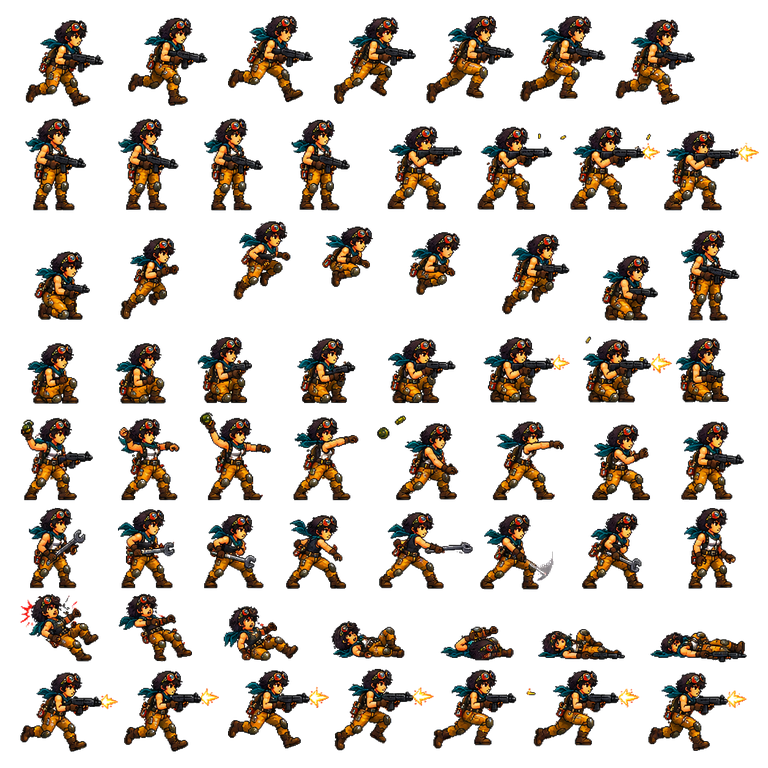
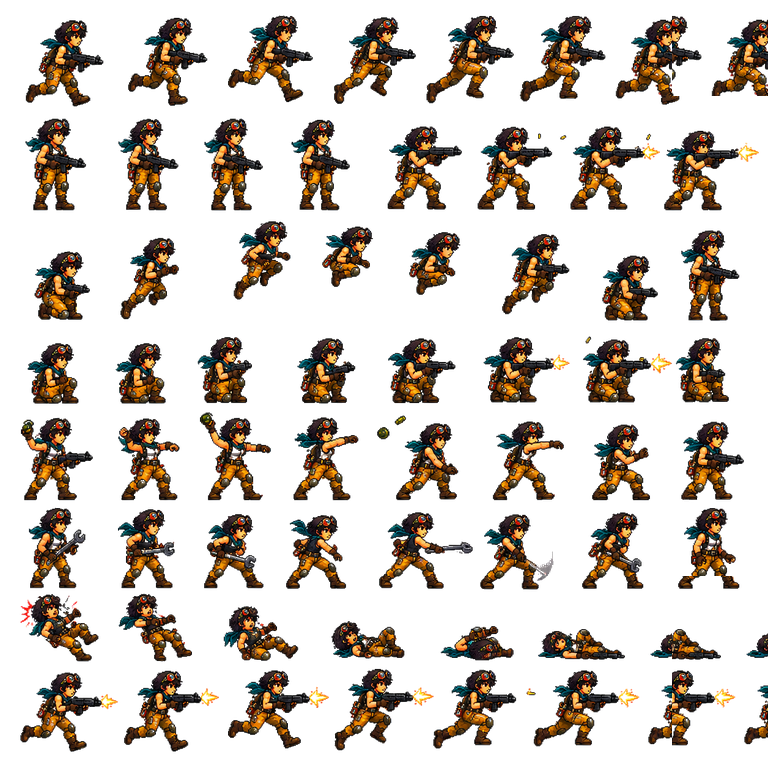
Ground actor sprites and refine cinematic depth

diff --git a/src/render.cpp b/src/render.cpp
@@ -67,6 +67,7 @@ Atlas Renderer::load(const std::string &name, int cols, int rows, bool trim, boo
   Atlas a;
   a.cols = cols;
   a.rows = rows;
+  a.trimmed = trim;
   int n;
   unsigned char *pixels = stbi_load((assets + "/" + name).c_str(), &a.width, &a.height, &n, 4);
   if (!pixels)
@@ -191,7 +192,13 @@ void Renderer::sprite(const Atlas &a, int idx, float x, float y, float w, float 
 void Renderer::groundedSprite(const Atlas &a, int idx, float x, float y, float w, float h,
                               bool flip, double angle, uint8_t alpha) {
   int safe = std::max(0, std::min(idx, int(a.cells.size() - 1)));
-  float shift = safe < int(a.baselines.size()) ? (1.0f - a.baselines[safe]) * h : 0.0f;
+  // Trimmed cells are already mapped from their visible bounding box to the
+  // complete destination box, so their visible bottom is exactly y + h.
+  // Applying the full-cell baseline a second time pushed run-fire and worker
+  // poses below the collision line. Only untrimmed atlases need the correction.
+  float shift = !a.trimmed && safe < int(a.baselines.size())
+                    ? (1.0f - a.baselines[safe]) * h
+                    : 0.0f;
   sprite(a, safe, x, y + shift, w, h, flip, angle, alpha);
 }
 void Renderer::spritePart(const Atlas &a, int idx, Rect part, float x, float y, float w, float h,
@@ -417,11 +424,6 @@ void Renderer::background(int theme, float camera, float time) {
     rect(x + 18, y + 15, 12, 20, theme == 1 ? 0x1B4B5128 : 0x22263228);
     rect(x + 48, y + 15, 24, 20, theme == 3 ? 0x6A2A2028 : 0x25323A28);
   }
-  // Slow second-depth silhouettes keep scrolling distinct from the far scenery.
-  for (int i = 0; i < 6; i++) {
-    float x = i * 121 - std::fmod(camera * .38f, 121.0f);
-    line(x, 0, x, 35 + std::sin(float(i)) * 12, 0x14263080);
-  }
   // Midground silhouettes give the painted panels a second depth layer. They
   // scroll slower than the gameplay plane, making camera motion feel richer
   // without changing collision geometry.
@@ -465,23 +467,18 @@ void Renderer::background(int theme, float camera, float time) {
   }
 }
 void Renderer::foregroundDepth(int theme, float camera, float time) {
-  // The foreground is deliberately sparse: the player and projectiles remain
-  // readable while close rails, cables and hanging hooks sweep past faster
-  // than the collision plane. All elements are existing authored prop art or
-  // simple silhouettes, so no extra runtime texture is required on Vita.
-  const float travel = camera * 1.12f - time * 8.0f;
-  for (int i = 0; i < 6; i++) {
-    float x = std::fmod(i * 124.0f - travel + 800.0f, 620.0f) - 90.0f;
-    float y = 246.0f + (i % 2) * 4.0f;
-    sprite(props, (theme * 2 + i) % 6, x, y, 102, 28, false, 0, 92);
-    rect(x, y, 102, 2, 0x08131AD0);
-  }
-  for (int i = 0; i < 5; i++) {
-    float x = std::fmod(i * 151.0f - camera * 1.28f + time * 10.0f + 640.0f, 620.0f) - 70.0f;
-    float sway = std::sin(time * 1.7f + i * 1.8f) * 12.0f;
-    line(x, 28, x + sway, 122 + (i % 2) * 22, 0x07131AA0);
-    line(x + 1, 28, x + sway + 1, 122 + (i % 2) * 22, 0xC3944960);
-    rect(x + sway - 3, 120 + (i % 2) * 22, 7, 5, 0x1D2B32BB);
+  // The near field is a quiet architectural silhouette along the floor. It
+  // moves a little faster than gameplay to sell depth without putting random
+  // ropes, hooks or props in front of the actors.
+  const float travel = camera * 1.12f - time * 3.0f;
+  uint32_t shadow = theme == 1 || theme == 4 ? 0x071C2538 : 0x120F1838;
+  for (int i = 0; i < 7; i++) {
+    float x = std::fmod(i * 118.0f - travel + 800.0f, 620.0f) - 90.0f;
+    float w = 64.0f + (i % 3) * 18.0f;
+    float h = 5.0f + (i % 2) * 4.0f;
+    rect(x, 267.0f - h, w, h, shadow);
+    rect(x + 8.0f, 267.0f - h - 2.0f, 2.0f, 2.0f,
+         theme == 1 ? 0x62C8BC42 : 0xD78D4842);
   }
 }
 void Renderer::lightingPass(const Game &g, float camera, float time, float alpha) {
@@ -501,12 +498,17 @@ void Renderer::lightingPass(const Game &g, float camera, float time, float alpha
     rect(0, 265 - i * 2, W, 2, 0x050B1200 | uint8_t(a * .8f));
   }
   auto glow = [&](float x, float y, float radius, uint32_t color) {
-    for (int i = 6; i >= 1; i--) {
-      float t = i / 6.0f;
-      uint8_t a = uint8_t((1.0f - t) * 28 + 5);
-      ring(x, y, radius * t, radius * .62f * t, (color & 0xFFFFFF00) | a);
+    // Filled, nested bands read as a soft point light at the game's native
+    // resolution. Outlines made the old glow look like a debug reticle.
+    for (int i = 7; i >= 1; i--) {
+      float t = i / 7.0f;
+      float halfW = radius * t;
+      float halfH = radius * .42f * t;
+      uint8_t a = uint8_t(4 + (1.0f - t) * 18);
+      rect(x - halfW, y - halfH, halfW * 2.0f, halfH * 2.0f,
+           (color & 0xFFFFFF00) | a);
     }
-    rect(x - 2, y - 2, 4, 4, (color & 0xFFFFFF00) | 148);
+    rect(x - 1.5f, y - 1.5f, 3, 3, (color & 0xFFFFFF00) | 164);
   };
   // Practical lamps repeat with the same period as the middle-distance tiles.
   for (int i = 0; i < 9; i++) {
@@ -697,7 +699,8 @@ void Renderer::drawGame(const Game &g, const ViewState &v) {
                                     : (p.recoil > 0 ? -p.dir * 2.0 : 0.0);
       if (g.status == Status::Dying) {
         float deathT = std::clamp(1.0f - g.deathTimer, 0.0f, 1.0f);
-        frame = modernHero ? 48 + std::min(7, int(deathT * 8))
+        static constexpr int deathFrames[] = {48, 49, 50, 51, 52, 53, 54, 54};
+        frame = modernHero ? deathFrames[std::min(7, int(deathT * 8))]
                            : 28 + std::min(3, int((1 - g.deathTimer) * 5));
         w = playerW * (1.0f + deathT * .18f);
         h = playerH * (1.0f - deathT * .16f);
@@ -746,9 +749,12 @@ void Renderer::drawGame(const Game &g, const ViewState &v) {
           frame = crouchIdleFrames[int(p.anim * 5) % 3];
         }
       } else if (std::fabs(p.vx) > 1 && (v.input.shoot || p.shot > 0)) {
-        frame = modernHero ? 56 + int(p.stride * 8) % 8 : 12 + std::min(3, int(p.fireAge * 28));
+        static constexpr int runFireFrames[] = {56, 57, 58, 59, 60, 61, 62, 62};
+        frame = modernHero ? runFireFrames[int(p.stride * 8) % 8]
+                           : 12 + std::min(3, int(p.fireAge * 28));
       } else if (std::fabs(p.vx) > 1) {
-        frame = int(p.stride * 8) % 8;
+        static constexpr int runFrames[] = {0, 1, 2, 3, 4, 5, 6, 6};
+        frame = modernHero ? runFrames[int(p.stride * 8) % 8] : int(p.stride * 8) % 8;
       } else if (v.input.shoot || p.shot > 0) {
         frame = 12 + std::min(3, int(p.fireAge * 28));
       }

diff --git a/src/audio.cpp b/src/audio.cpp
@@ -50,53 +50,58 @@ void Audio::play(Sound s) {
   *v = {0, 300, 0, .22f, .1f, .1f, 0, .35f};
   switch (s) {
   case Sound::Shot:
-    v->freq = 700;
-    v->slide = -6000;
-    v->remaining = .055f;
-    v->wave = 2;
-    v->noiseMix = .28f;
+    v->freq = 760;
+    v->slide = -5200;
+    v->remaining = .075f;
+    v->wave = 3;
+    v->volume = .2f;
+    v->noiseMix = .2f;
     break;
   case Sound::Heavy:
-    v->freq = 330;
-    v->slide = -1800;
-    v->remaining = .07f;
-    v->wave = 2;
-    v->volume = .16f;
-    v->noiseMix = .22f;
+    v->freq = 250;
+    v->slide = -1250;
+    v->remaining = .11f;
+    v->wave = 3;
+    v->volume = .21f;
+    v->noiseMix = .26f;
     break;
   case Sound::Shotgun:
     v->freq = 180;
     v->remaining = .15f;
-    v->wave = 2;
+    v->wave = 3;
     v->volume = .3f;
-    v->noiseMix = .62f;
+    v->noiseMix = .56f;
     break;
   case Sound::Rocket:
     v->freq = 110;
     v->remaining = .25f;
     v->slide = 100;
-    v->wave = 2;
-    v->noiseMix = .42f;
+    v->wave = 3;
+    v->volume = .33f;
+    v->noiseMix = .36f;
     break;
   case Sound::Flame:
     v->freq = 95;
     v->slide = 340;
     v->remaining = .18f;
-    v->wave = 2;
-    v->volume = .22f;
-    v->noiseMix = .46f;
+    v->wave = 3;
+    v->volume = .24f;
+    v->noiseMix = .34f;
     break;
   case Sound::Laser:
     v->freq = 920;
     v->slide = -2400;
     v->remaining = .12f;
-    v->volume = .18f;
-    v->noiseMix = .025f;
+    v->wave = 3;
+    v->volume = .2f;
+    v->noiseMix = .015f;
     break;
   case Sound::Grenade:
     v->freq = 520;
     v->slide = -850;
     v->remaining = .13f;
+    v->wave = 3;
+    v->volume = .2f;
     break;
   case Sound::Blast:
     v->freq = 70;
@@ -108,7 +113,7 @@ void Audio::play(Sound s) {
     break;
   case Sound::Hit:
     v->freq = 250;
-    v->wave = 2;
+    v->wave = 3;
     v->remaining = .07f;
     v->noiseMix = .38f;
     break;
@@ -134,6 +139,7 @@ void Audio::play(Sound s) {
     v->freq = 280;
     v->slide = -650;
     v->remaining = .35f;
+    v->wave = 3;
     v->volume = .28f;
     break;
   case Sound::Boss:
@@ -145,9 +151,9 @@ void Audio::play(Sound s) {
   case Sound::Step:
     v->freq = 120;
     v->remaining = .025f;
-    v->wave = 2;
+    v->wave = 3;
     v->volume = .08f;
-    v->noiseMix = .58f;
+    v->noiseMix = .46f;
     break;
   case Sound::Stomp:
     v->freq = 88;
@@ -186,7 +192,14 @@ void Audio::mix(int16_t *out, int count) {
       int note = motifs[theme % 6][step];
       float transpose = boss ? 3.0f : 0.0f;
       float hz = 110 * std::pow(2.0f, (note + transpose) / 12.0f);
-      float lead = std::sin(6.283185f * hz * 2 * t) * std::exp(-f * 4) * (boss ? .045f : .036f);
+      float lead = (std::sin(6.283185f * hz * 2 * t) * .72f +
+                    std::sin(6.283185f * hz * 4 * t) * .18f +
+                    std::sin(6.283185f * hz * 1.005f * t) * .10f) *
+                   std::exp(-f * 3.2f) * (boss ? .052f : .042f);
+      int accentNote = motifs[theme % 6][(step + 5) % 16];
+      float accentHz = 220 * std::pow(2.0f, (accentNote + transpose) / 12.0f);
+      float accent = std::sin(6.283185f * accentHz * t) * std::exp(-f * 11.0f) *
+                     (step % 4 == 1 ? .018f : .010f);
       int chordNote = motifs[theme % 6][(step / 4) * 4];
       float rootHz = 55 * std::pow(2.0f, (chordNote + transpose) / 12.0f);
       float thirdHz = rootHz * (theme % 2 ? 1.1892f : 1.2599f);
@@ -195,8 +208,9 @@ void Audio::mix(int16_t *out, int count) {
       float pad = (std::sin(6.283185f * rootHz * t) * .014f +
                    std::sin(6.283185f * thirdHz * t) * .010f +
                    std::sin(6.283185f * fifthHz * t) * .008f) * padGate;
-      float bass = (2 / std::acos(-1.0f)) * std::asin(std::sin(6.283185f * rootHz * .5f * t)) *
-                   (boss ? .064f : .05f);
+      float bassPhase = std::fmod(rootHz * .5f * t, 1.0f);
+      float bassWave = 4.0f * std::fabs(bassPhase - .5f) - 1.0f;
+      float bass = bassWave * (boss ? .062f : .048f);
       float kick = step % 4 == 0
                        ? std::sin(6.283185f * (65 - 35 * f) * f * .14f) * std::exp(-f * 12) * .12f
                        : 0;
@@ -209,7 +223,7 @@ void Audio::mix(int16_t *out, int count) {
       float alarm = boss ? std::sin(6.283185f * (190 + 28 * std::sin(t * .8f)) * t) *
                                std::exp(-f * 3) * .012f
                          : 0;
-      sum = lead + pad + bass + kick + snare + hat + ghost + tom + alarm;
+      sum = lead + accent + pad + bass + kick + snare + hat + ghost + tom + alarm;
       sample++;
     }
     for (auto &v : voices)
@@ -219,6 +233,8 @@ void Audio::mix(int16_t *out, int count) {
         v.phase += v.freq * dt;
         v.phase -= std::floor(v.phase);
         float osc = v.wave == 2   ? n * v.noiseMix + std::sin(v.phase * 6.283185f) * (1.0f - v.noiseMix)
+                    : v.wave == 3 ? ((4.0f * std::fabs(v.phase - .5f) - 1.0f) * .72f +
+                                     std::sin(v.phase * 12.56637f) * .28f)
                     : v.wave == 1 ? (v.phase < .5f ? .6f : -.6f)
                                   : std::sin(v.phase * 6.283185f);
         // A short attack and release prevents zipper clicks while retaining

diff --git a/tools/prepare_sprite_atlases.py b/tools/prepare_sprite_atlases.py
@@ -2,9 +2,9 @@
 """Normalize generated sprite sheets to stable atlas cells.
 
 The artwork is authored as pose boards. This tool only normalizes dimensions,
-keys the neutral checkerboard/paper or black backdrop, and assembles the six
-boss boards into one 4x24 atlas. It never downloads or copies commercial game
-artwork.
+keys the neutral checkerboard/paper or black backdrop, keeps each resize inside
+its source cell, and fills known seven-pose rows with a held final pose. It never
+downloads or copies commercial game artwork.
 """
 from __future__ import annotations
 
@@ -32,7 +32,7 @@ def key_backdrop(image: Image.Image, black: bool = False) -> Image.Image:
 
 
 def normalize(source: Path, target: Path, size: tuple[int, int], cols: int, rows: int,
-              black: bool = False) -> None:
+              black: bool = False, duplicate_rows: tuple[int, ...] = ()) -> None:
     source_image = Image.open(source).convert("RGBA")
     # Resize each authored cell independently. Resizing the complete board lets
     # Lanczos sample a neighboring pose, which produces stray limbs around a
@@ -50,6 +50,10 @@ def normalize(source: Path, target: Path, size: tuple[int, int], cols: int, rows
             cell = cell.resize((cell_w, cell_h), Image.Resampling.LANCZOS)
             cell = key_backdrop(cell, black=black)
             image.alpha_composite(cell, (col * cell_w, row * cell_h))
+    for row in duplicate_rows:
+        src = image.crop((6 * cell_w, row * cell_h, 7 * cell_w, (row + 1) * cell_h))
+        image.paste((0, 0, 0, 0), (7 * cell_w, row * cell_h, 8 * cell_w, (row + 1) * cell_h))
+        image.alpha_composite(src, (7 * cell_w, row * cell_h))
     target.parent.mkdir(parents=True, exist_ok=True)
     image.save(target, "PNG", optimize=True)
 
@@ -69,7 +73,8 @@ def main() -> None:
                         default=Path(__file__).resolve().parent / "sourceboards")
     args = parser.parse_args()
     assets = args.assets
-    normalize(args.source_dir / "hero-source.png", assets / "hero-v2.png", (768, 768), 8, 8)
+    normalize(args.source_dir / "hero-source.png", assets / "hero-v2.png", (768, 768), 8, 8,
+              duplicate_rows=(0, 6, 7))
     normalize(args.source_dir / "enemies-source.png", assets / "enemies-v2.png", (768, 576), 8, 6)
     normalize(args.source_dir / "vehicle-source.png", assets / "vehicle-v2.png", (768, 768), 4, 4,
               black=True)

diff --git a/src/render.h b/src/render.h
@@ -7,6 +7,7 @@ namespace kh {
 struct Atlas {
   SDL_Texture *texture = nullptr;
   int width = 0, height = 0, cols = 1, rows = 1;
+  bool trimmed = false;
   std::vector<SDL_Rect> cells;
   std::vector<float> baselines;
 };

diff --git a/DEBUG_ANALYSIS.md b/DEBUG_ANALYSIS.md
@@ -48,13 +48,18 @@ The RetroGameZone Metal Slug Sprite Database is useful as a frame-by-frame refer
 ### Visual and audio polish
 
 - Added midground parallax silhouettes, practical lights, warm coastal haze and a restrained CRT scanline/vignette pass.
-- Added a four-rate 2.5D depth stack: the painted world scrolls slowly, middle silhouettes drift at 34%, gameplay remains at 100%, and a sparse authored-prop rail/cable foreground sweeps at 112–128%. The foreground is drawn after actors with low alpha so it gives camera movement depth without hiding targets or changing collision.
+- Added a four-rate 2.5D depth stack: the painted world scrolls slowly, middle silhouettes drift at 34%, gameplay remains at 100%, and a quiet floor-level near-field silhouette moves at 112%. The near field is drawn after actors with low alpha so it gives camera movement depth without putting arbitrary hanging geometry over the action.
 - Softened the light pass after visual inspection: volumetric shafts are now tapered alpha bands with an inner-to-outer fade instead of hard debug-like lines, while ambient grading and point lights stay subtle enough to preserve the painted art.
 - Fixed floating poses by measuring each atlas cell's visible alpha bottom at load time. Grounded sprites receive a per-frame baseline correction; airborne poses and intentional death arcs keep their original vertical composition.
-- Corrected semantic frame mapping: hero jump uses cells 17–21, crouch uses 16/24–30, melee uses all cells 40–47, and enemy attacks use cells 4–5 while death uses the authored collapse cells 6–7.
+- Corrected semantic frame mapping: hero jump uses cells 17–21, crouch uses 16/24–30, melee uses all cells 40–47, and enemy attacks use cells 4–5 while death uses the authored collapse cells 6–7. The hero's seven-pose run, death and run-fire strips now hold their last valid pose in the eighth timing slot instead of selecting the partial contact-sheet cell.
 - Added grounded actor shadows so jumps, drones and deaths read clearly against the painted backgrounds.
 - Expanded the procedural soundtrack with chord pads, bass movement, kick, snare, hi-hat and ghost rhythm layers. Boss encounters raise the tempo, transpose the motif and add tom/alarm accents.
-- Audio now runs at 32 kHz with per-effect noise balance and short attack/release envelopes: metallic shots stay punchy, laser stays tonal, and flame/blast effects retain controlled texture. Added dedicated Flame Shot and Laser sound signatures while preserving the existing weapon, rescue, hit, vehicle and boss cues.
+- Audio now runs at 32 kHz with triangle/sine timbres, per-effect noise balance and short attack/release envelopes: metallic shots have a defined transient, laser stays tonal, and flame/blast effects retain controlled texture. The music adds a shaped lead, accent plucks, triangle bass and a restrained boss layer while preserving the existing weapon, rescue, hit, vehicle and boss cues.
+
+### Replaced visual study
+
+- The developers describe Replaced as pixel art presented through a 2.5D camera, with dynamic lighting and shadows, volumetric fog, layered effects and carefully authored frame-by-frame animation. Those principles are documented in [Xbox Wire's combat/art direction notes](https://news.xbox.com/en-us/2026/04/14/replaced-combat/?ver=3.7.1) and the [Sad Cat Studios visual breakdown](https://store.epicgames.com/es-MX/news/the-inspirations-and-innovations-of-replaced).
+- Applied here as restrained equivalents: filled light falloff behind actors, warm/cool stage grades, layered haze and parallax silhouettes, plus contact shadows and fixed foot anchors. The near field stays at floor level so depth supports composition without arbitrary cables crossing the play space.
 
 ## Verification
 

diff --git a/README.md b/README.md
@@ -93,4 +93,4 @@ The comparison video is a silent 12-second, 30 fps recording of the 60 Hz simula
 
 ## Teknik notlar
 
-The game runs at a 480×272 logical resolution with nearest-neighbor pixel sampling and a 60 Hz simulation. Desktop uses SDL2; Vita uses the VitaSDK SDL2 port. Normal player poses share a 48×48 ground box, atlas cells retain a consistent authored scale, visible sprite bottoms are measured at load time, and grounded frames receive a small baseline correction so feet stay on the same collision line. The player is interpolated between fixed ticks for smoother motion. Backgrounds use four depth rates: painted scenery at 16%, industrial middle silhouettes at 34%, the gameplay plane at 100%, and a sparse authored-prop foreground rail/cable pass at 112–128%. This creates a restrained 2.5D effect without changing collision geometry or adding a large texture. The sprite preparation tool crops and rescales every authored atlas cell independently, preventing Lanczos sampling from pulling opaque pixels out of a neighboring frame. Practical lights, haze and a light CRT pass complete the scene. Music is generated in real time with per-stage motifs and a higher-intensity boss arrangement; 32 kHz sound effects use per-weapon noise balance and click-free envelopes. The visual designs are original and do not use existing commercial characters or vehicles.
+The game runs at a 480×272 logical resolution with nearest-neighbor pixel sampling and a 60 Hz simulation. Desktop uses SDL2; Vita uses the VitaSDK SDL2 port. Normal player poses share a 48×48 ground box, atlas cells retain a consistent authored scale, visible sprite bottoms are measured at load time, and grounded frames receive a small baseline correction so feet stay on the same collision line. Trimmed actor atlases skip that second correction because their visible bounds already fill the destination box. The player is interpolated between fixed ticks for smoother motion. Backgrounds use four depth rates: painted scenery at 16%, industrial middle silhouettes at 34%, the gameplay plane at 100%, and a quiet floor-level near-field silhouette at 112%. This creates a restrained 2.5D effect without hanging geometry crossing the actors or adding a large texture. The sprite preparation tool crops and rescales every authored atlas cell independently and holds the seven-pose run/death strips on their last valid frame, preventing Lanczos sampling or an empty contact-sheet slot from pulling opaque pixels into animation. Practical lights, haze and a light CRT pass complete the scene. Music is generated in real time with per-stage motifs and a higher-intensity boss arrangement; 32 kHz sound effects use per-weapon noise balance and click-free envelopes. The visual designs are original and do not use existing commercial characters or vehicles.
